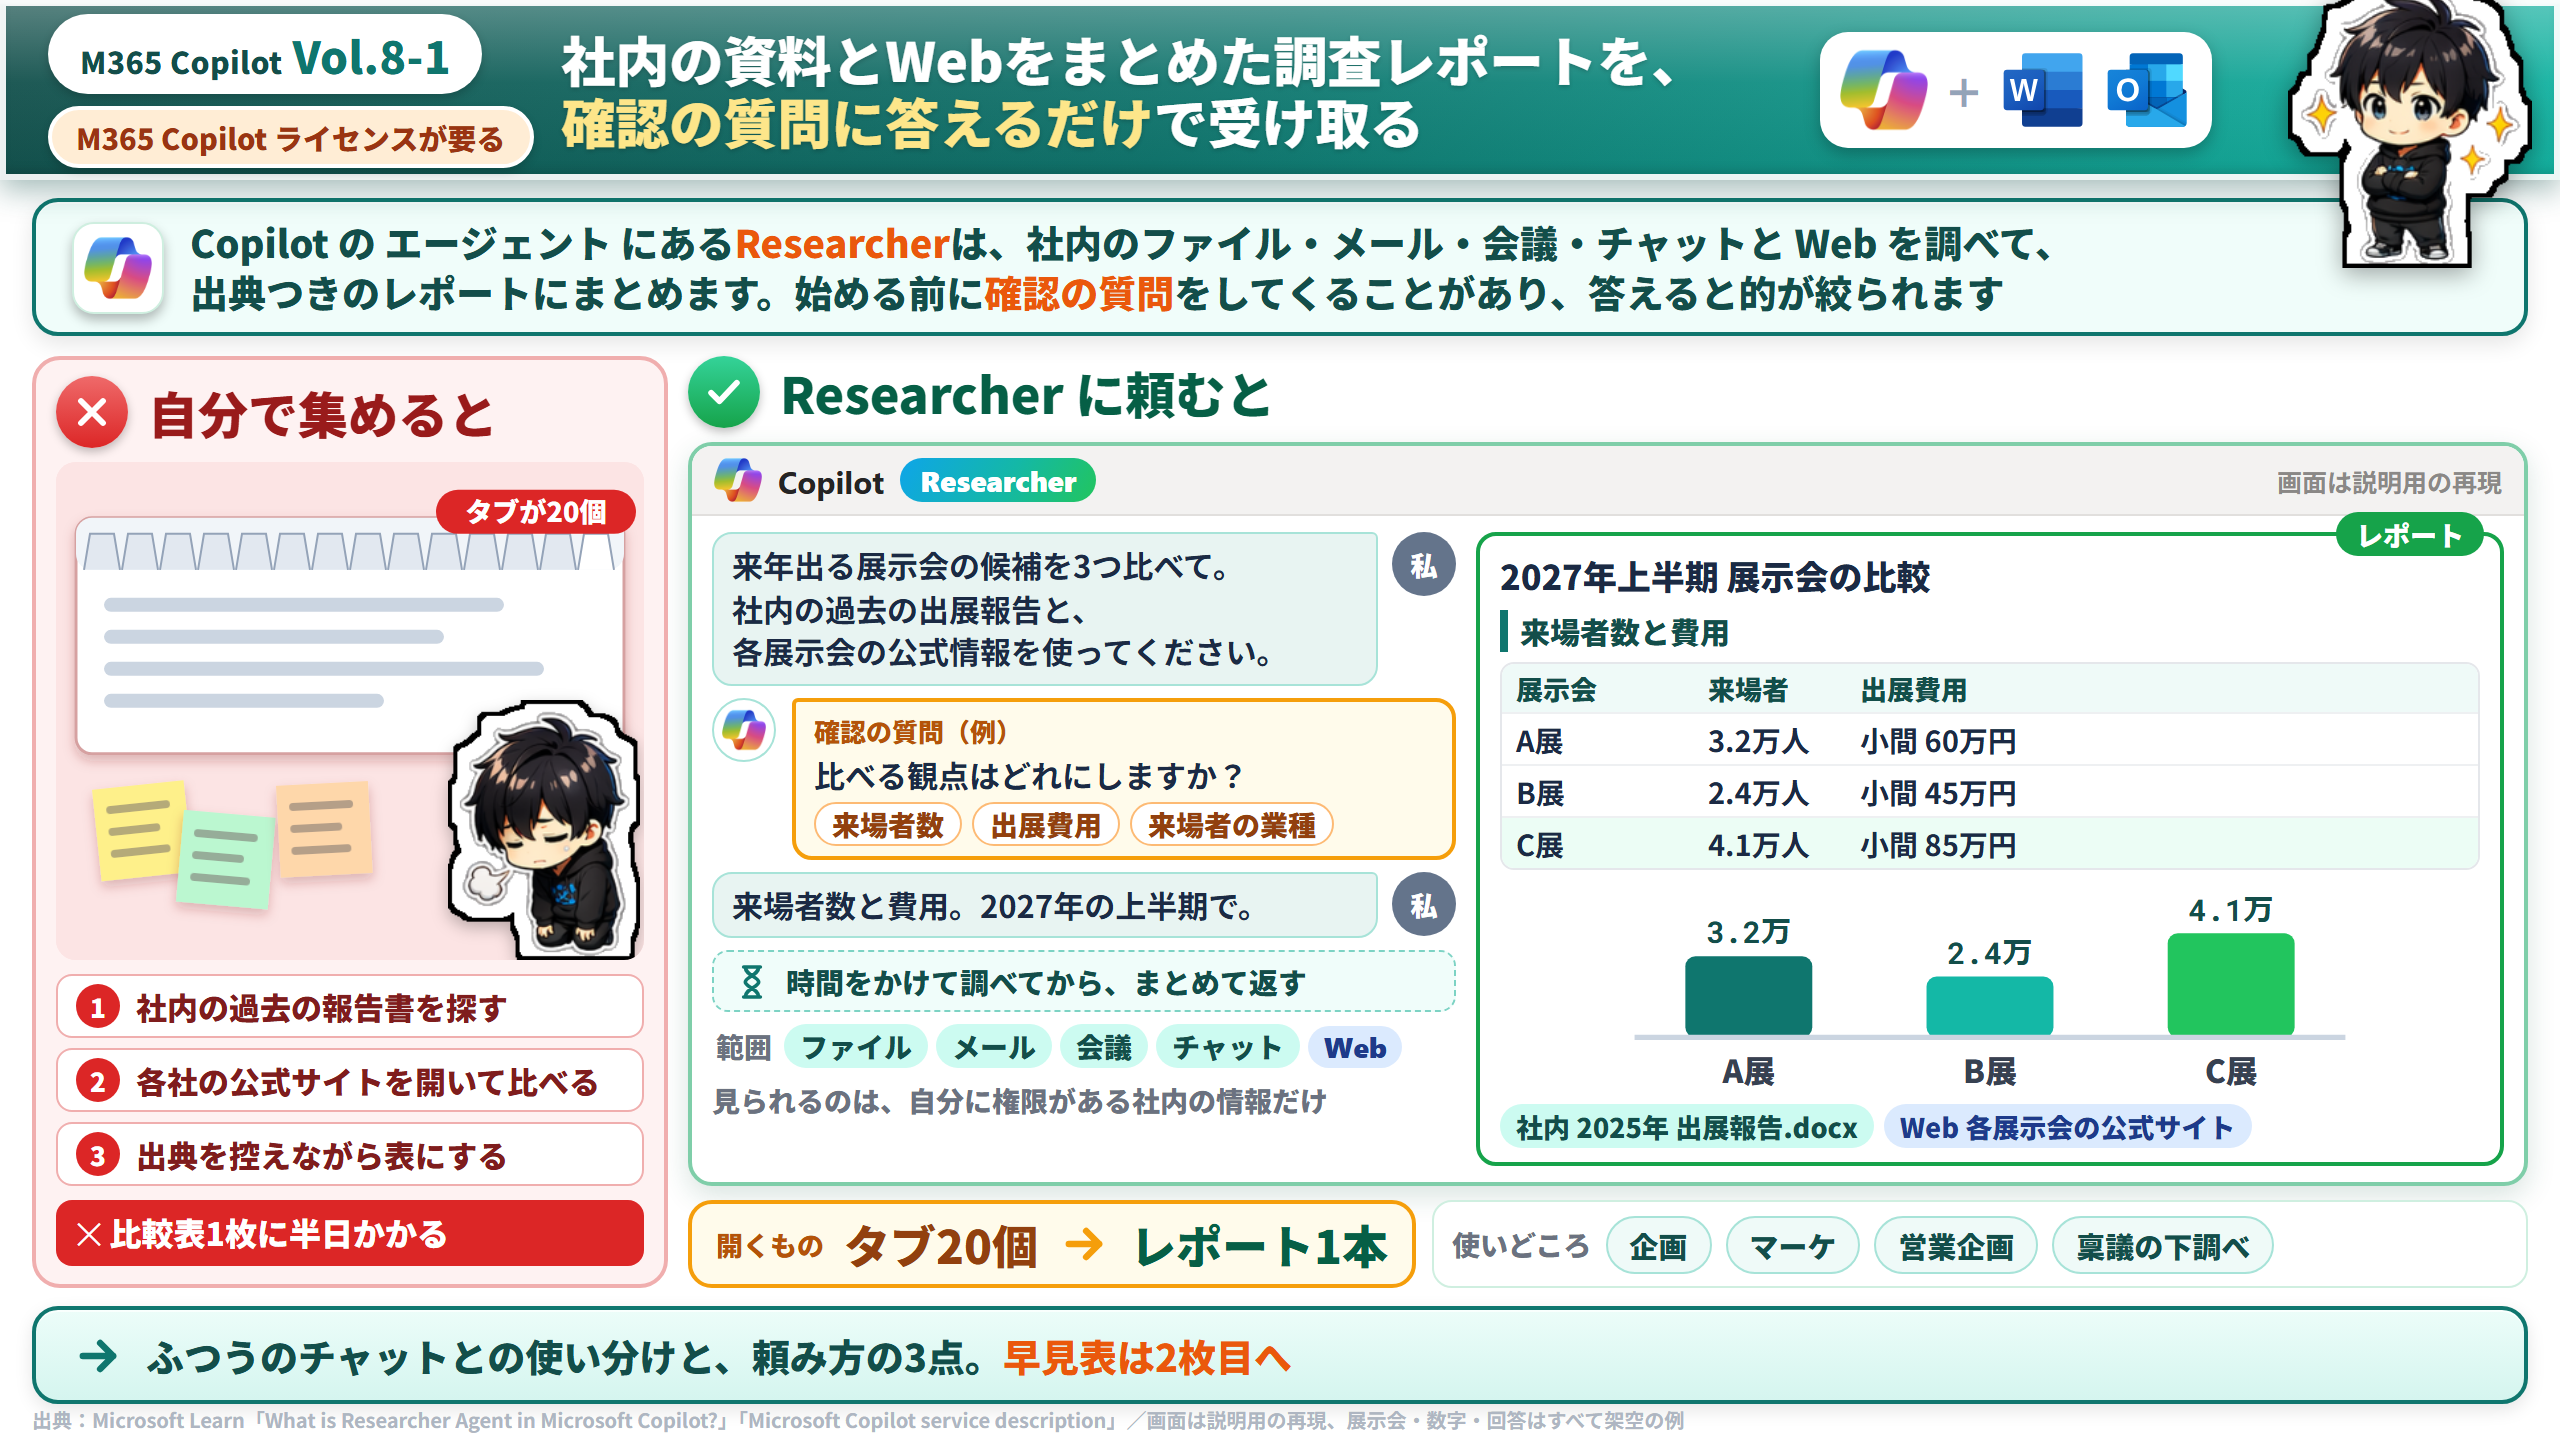
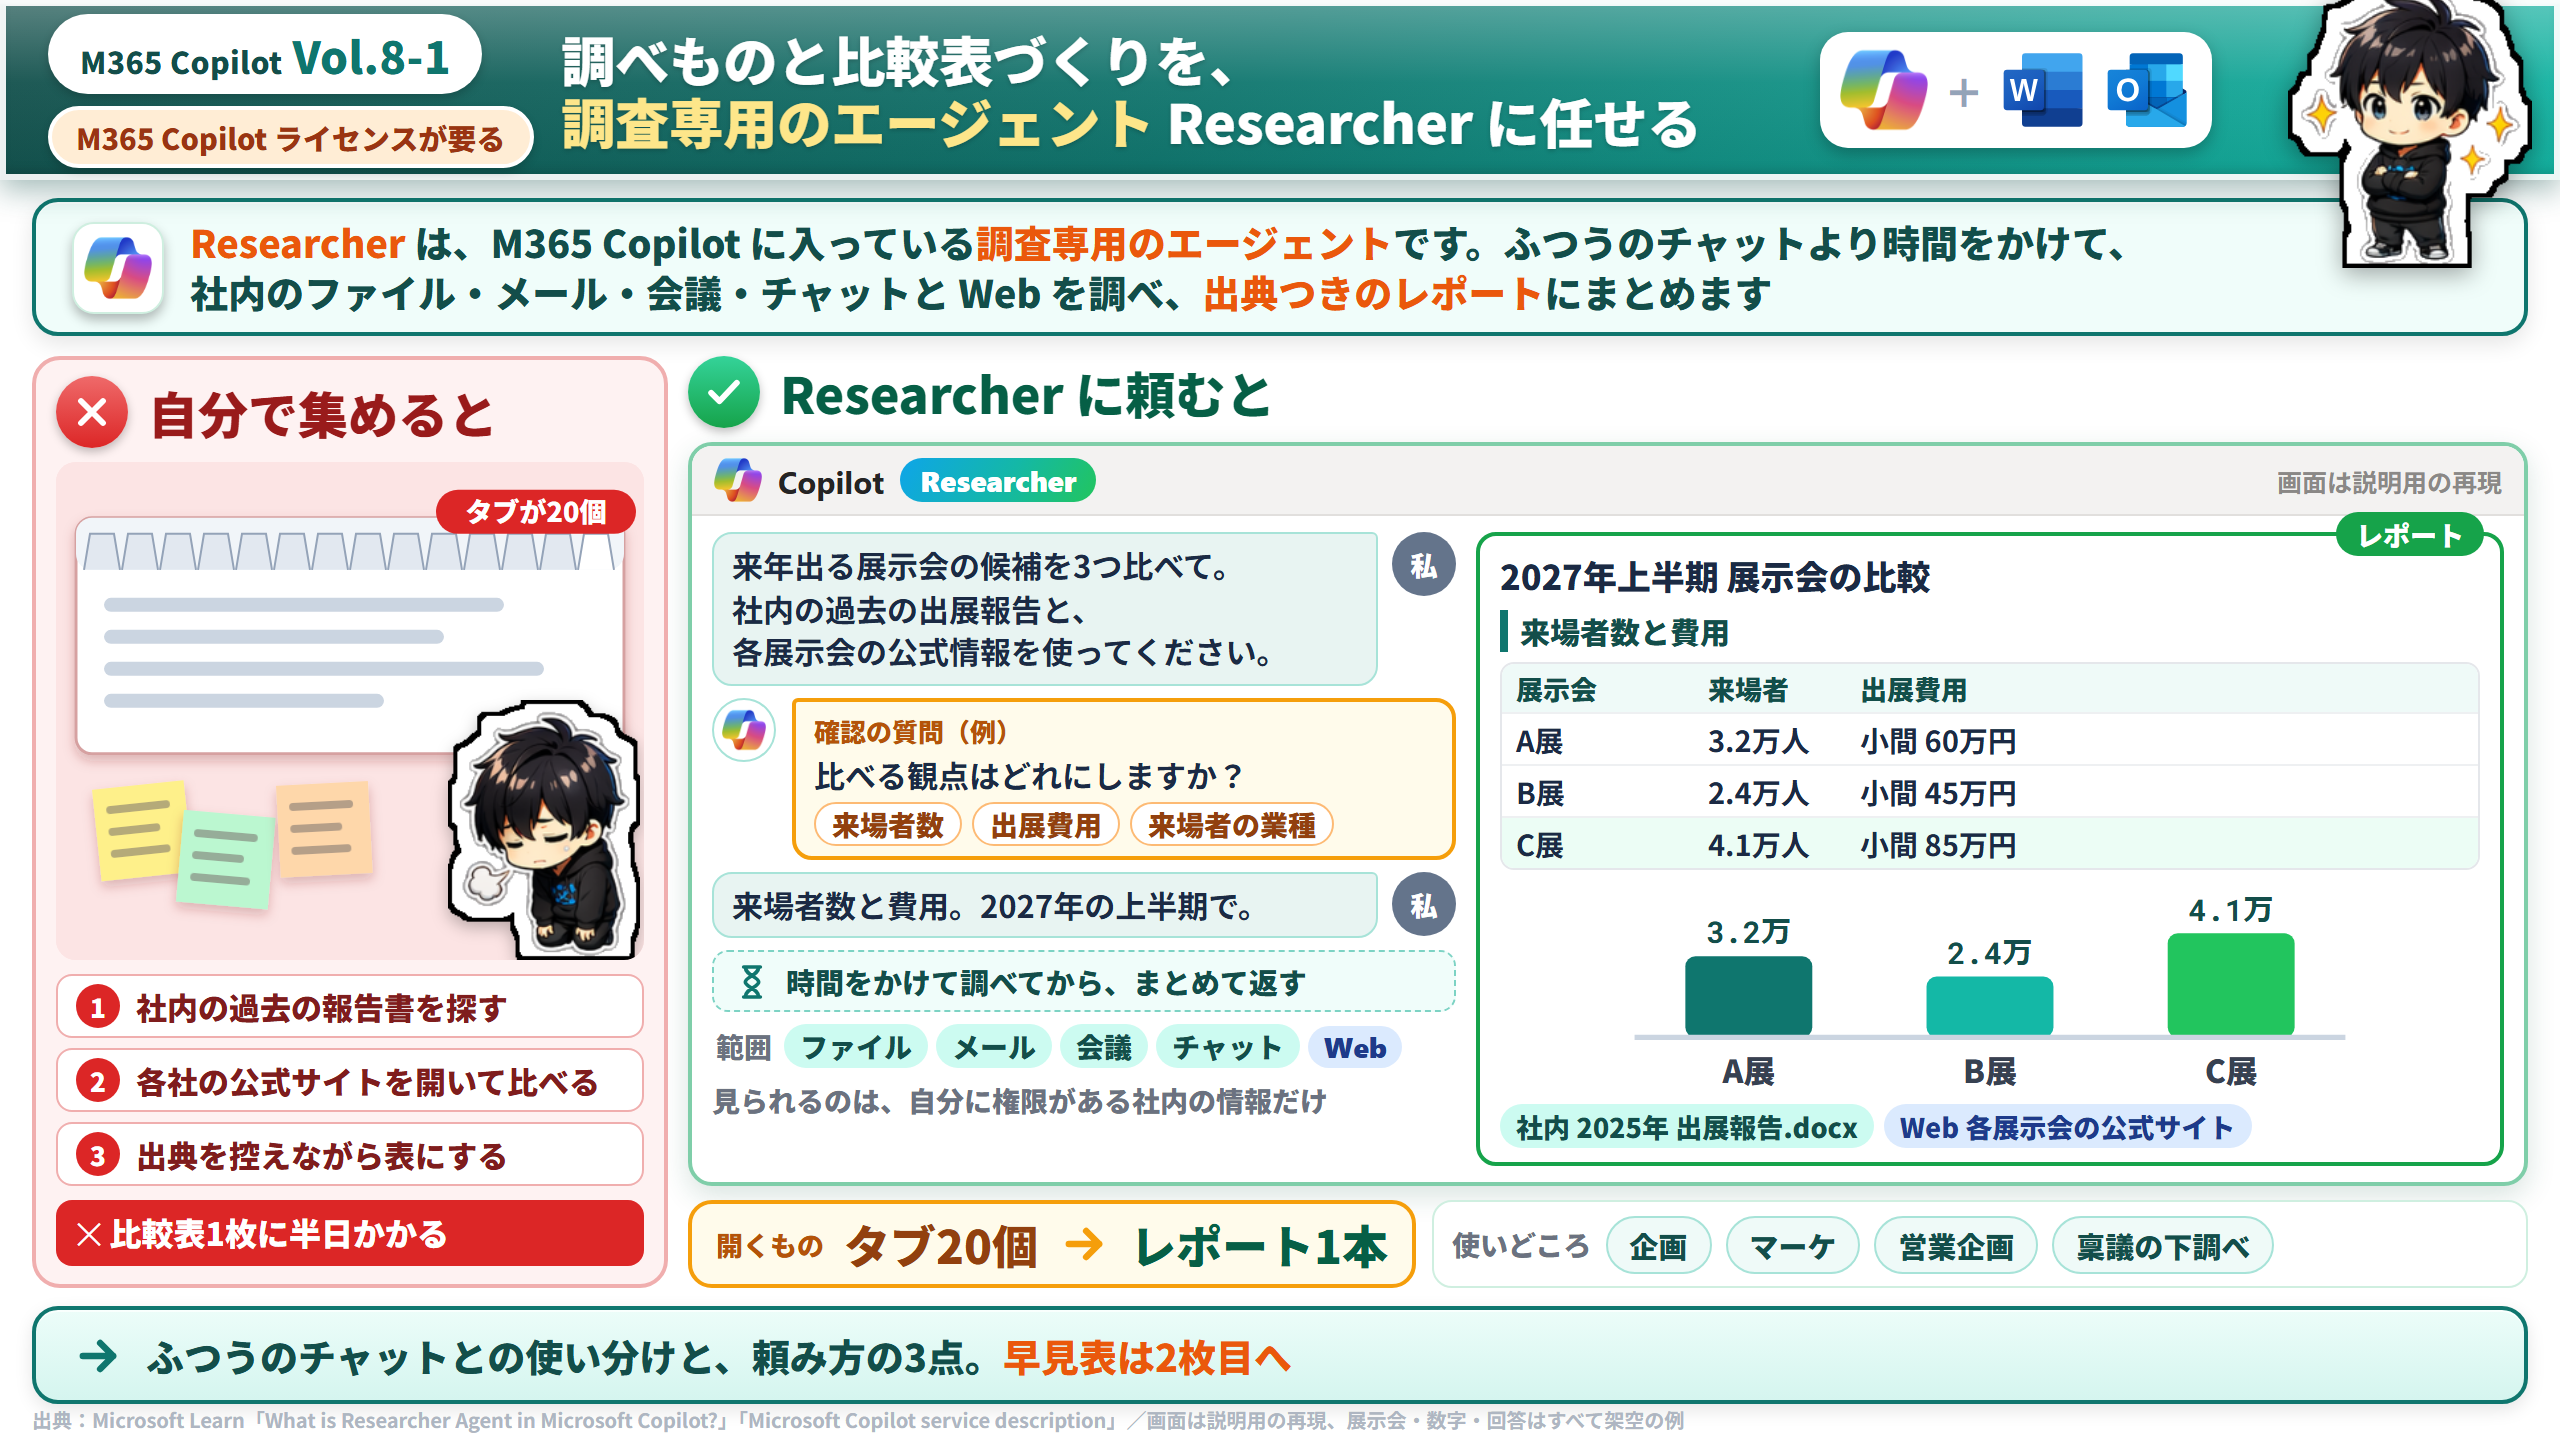
M365 Copilot #8: Researcher が何かを本文とスライドで先に説明する
- 板の本文: 1文目をメリットに、2文目に Researcher の説明を追加。手順を番号付き4行にして依頼文の例を入れた
- スライド1枚目: タイトルと結論バーを「調査専用のエージェント」の説明に変更、PNG を再書き出し
- タイトルを板・スライドでそろえた

Changed region(s): [[0.0625, 0.1562, 0.8438, 0.2188], [0.2188, 0.0, 0.6562, 0.125]]

diff --git a/assets/x/html/mc-vol-08/index.html b/assets/x/html/mc-vol-08/index.html
@@ -3,7 +3,7 @@
 <head>
 <meta charset="UTF-8">
 <meta name="viewport" content="width=1280, initial-scale=1">
-<title>M365 Copilot Vol.8-1 社内の資料とWebをまとめた調査レポートを、確認の質問に答えるだけで受け取る</title>
+<title>M365 Copilot Vol.8-1 調べものと比較表づくりを、調査専用のエージェント Researcher に任せる</title>
 <link rel="preconnect" href="https://fonts.googleapis.com">
 <link rel="preconnect" href="https://fonts.gstatic.com" crossorigin>
 <link href="https://fonts.googleapis.com/css2?family=Noto+Sans+JP:wght@400;500;700;900&family=Roboto+Mono:wght@500;700&display=swap" rel="stylesheet">
@@ -101,14 +101,14 @@ document.getElementById('slide').innerHTML=`
       <div class="vol-pill"><small>M365 Copilot</small>Vol.8-1</div>
       <div class="lic-pill paid">M365 Copilot ライセンスが要る</div>
     </div>
-    <div class="title-text">社内の資料とWebをまとめた調査レポートを、<br><span class="hl">確認の質問に答えるだけ</span>で受け取る</div>
+    <div class="title-text">調べものと比較表づくりを、<br><span class="hl">調査専用のエージェント</span> Researcher に任せる</div>
     <div class="title-apps"><img class="msi" src="${A}icons/ms/copilot.png" alt=""><span class="pl">＋</span><img class="msi" src="${A}icons/ms/word.svg" alt=""><img class="msi" src="${A}icons/ms/outlook.svg" alt=""></div>
     <img class="title-chara" src="${A}chara/chara_confident.png" alt="">
   </div>
 
   <div class="concl">
     <div class="chip app">${CPI(34)}</div>
-    <div class="txt">Copilot の エージェント にある<b>Researcher</b>は、社内のファイル・メール・会議・チャットと Web を調べて、<br>出典つきのレポートにまとめます。始める前に<b>確認の質問</b>をしてくることがあり、答えると的が絞られます</div>
+    <div class="txt"><b>Researcher</b> は、M365 Copilot に入っている<b>調査専用のエージェント</b>です。ふつうのチャットより時間をかけて、<br>社内のファイル・メール・会議・チャットと Web を調べ、<b>出典つきのレポート</b>にまとめます</div>
   </div>
 
   <div class="stage">
